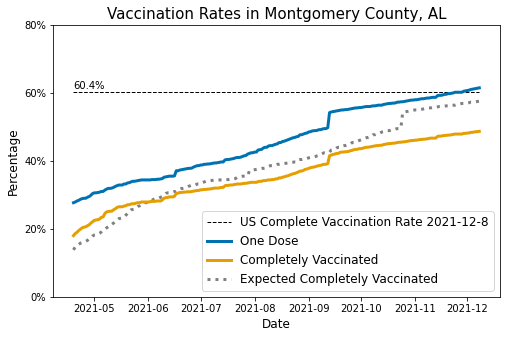
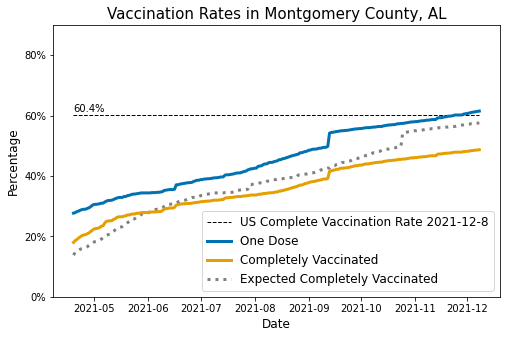
update viz

diff --git a/code/visualizations.py b/code/visualizations.py
@@ -185,16 +185,20 @@ def vaccine_trends_plot(county = None,
     
     # Add horizontal line at current completely vaccinated.
     if show_us_current == True:
+        y = df.index[-1].year
+        m = df.index[-1].month
+        d = df.index[-1].day
         ax.plot((one_dose.index[0], one_dose.index[-1]),
                 (complete.iloc[-1],complete.iloc[-1]), 
                 color = "k", 
                 linewidth = 1, 
                 linestyle = "--", 
-                zorder = 0)
+                zorder = 0,
+                label = "US Complete Vaccination Rate {}-{}-{}".format(y,m,d))
         ax.annotate("{}%".format(np.around(complete.iloc[-1], decimals = 1)), 
                     (one_dose.index[0], complete.iloc[-1]+1))
 
-    ax.set_title("US National Vaccination Rates") 
+    ax.set_title("US National Vaccination Rates", fontsize = 15) 
 
     # Load county data.
     if county:
@@ -211,7 +215,7 @@ def vaccine_trends_plot(county = None,
             expected = county_expected_complete_pct(df)
 
             ax.set_title("Vaccination Rates in {} County, {}".format(
-                                c.capitalize(), s))   
+                                c.capitalize(), s), fontsize = 15)   
 
         else:
             raise ValueError("A two-letter state abbreviation must be given.")
@@ -232,11 +236,13 @@ def vaccine_trends_plot(county = None,
             label = "Expected Completely Vaccinated", 
             zorder = 0)
 
-    ax.set_xlabel("Date")
+
+    ax.set_xlabel("Date", fontsize = 12)
     ax.set_yticks([0,20,40,60,80])
+    ax.set_ylim(0,90)
     ax.set_yticklabels(["{}%".format(20*i) for i in range(5)])
-    ax.set_ylabel("Percentage")
-    ax.legend(loc = "lower right")
+    ax.set_ylabel("Percentage", fontsize = 12)
+    ax.legend(loc = "lower right", prop = {"size":12})
     plt.show()
     return None
 
@@ -262,8 +268,7 @@ def relative_vaccine_trends_plot(county = None,
     expected = national_expected_complete_pct(df)
 
     fig, ax = plt.subplots(figsize = (8,5))
-    ax.set_title("Percentage Points Difference Between Expected \n and Actual "
-                        "National Vaccine Rates")
+    ax.set_title("Relative US National Vaccination Rates", fontsize = 15)
 
     if county:
 
@@ -277,9 +282,8 @@ def relative_vaccine_trends_plot(county = None,
             one_dose = county_one_dose_pct(df)
             expected = county_expected_complete_pct(df)
 
-            ax.set_title("Percentage Points Difference Between Expected \n and "
-                "Actual Vaccine Rates in {} County, {}".format(
-                                c.capitalize(), s))  
+            ax.set_title("Relative Vaccination Rates in {} County, {}".format(
+                                c.capitalize(), s), fontsize = 15)  
 
         else:
             raise ValueError("A two-letter state abbreviation must be given.")
@@ -314,10 +318,10 @@ def relative_vaccine_trends_plot(county = None,
         label= "Fewer people than expected are completely vaccinated", 
         linewidth = 3)
     
-    ax.set_ylabel("Percentage Points")
-    ax.set_xlabel("Date")
+    ax.set_ylabel("Percentage Points", fontsize = 12)
+    ax.set_xlabel("Date", fontsize = 12)
     ax.set_ylim(-12,12)
-    ax.legend(loc = "lower left")
+    ax.legend(loc = "lower left", prop = {"size":12})
     
     plt.show()
     return None
